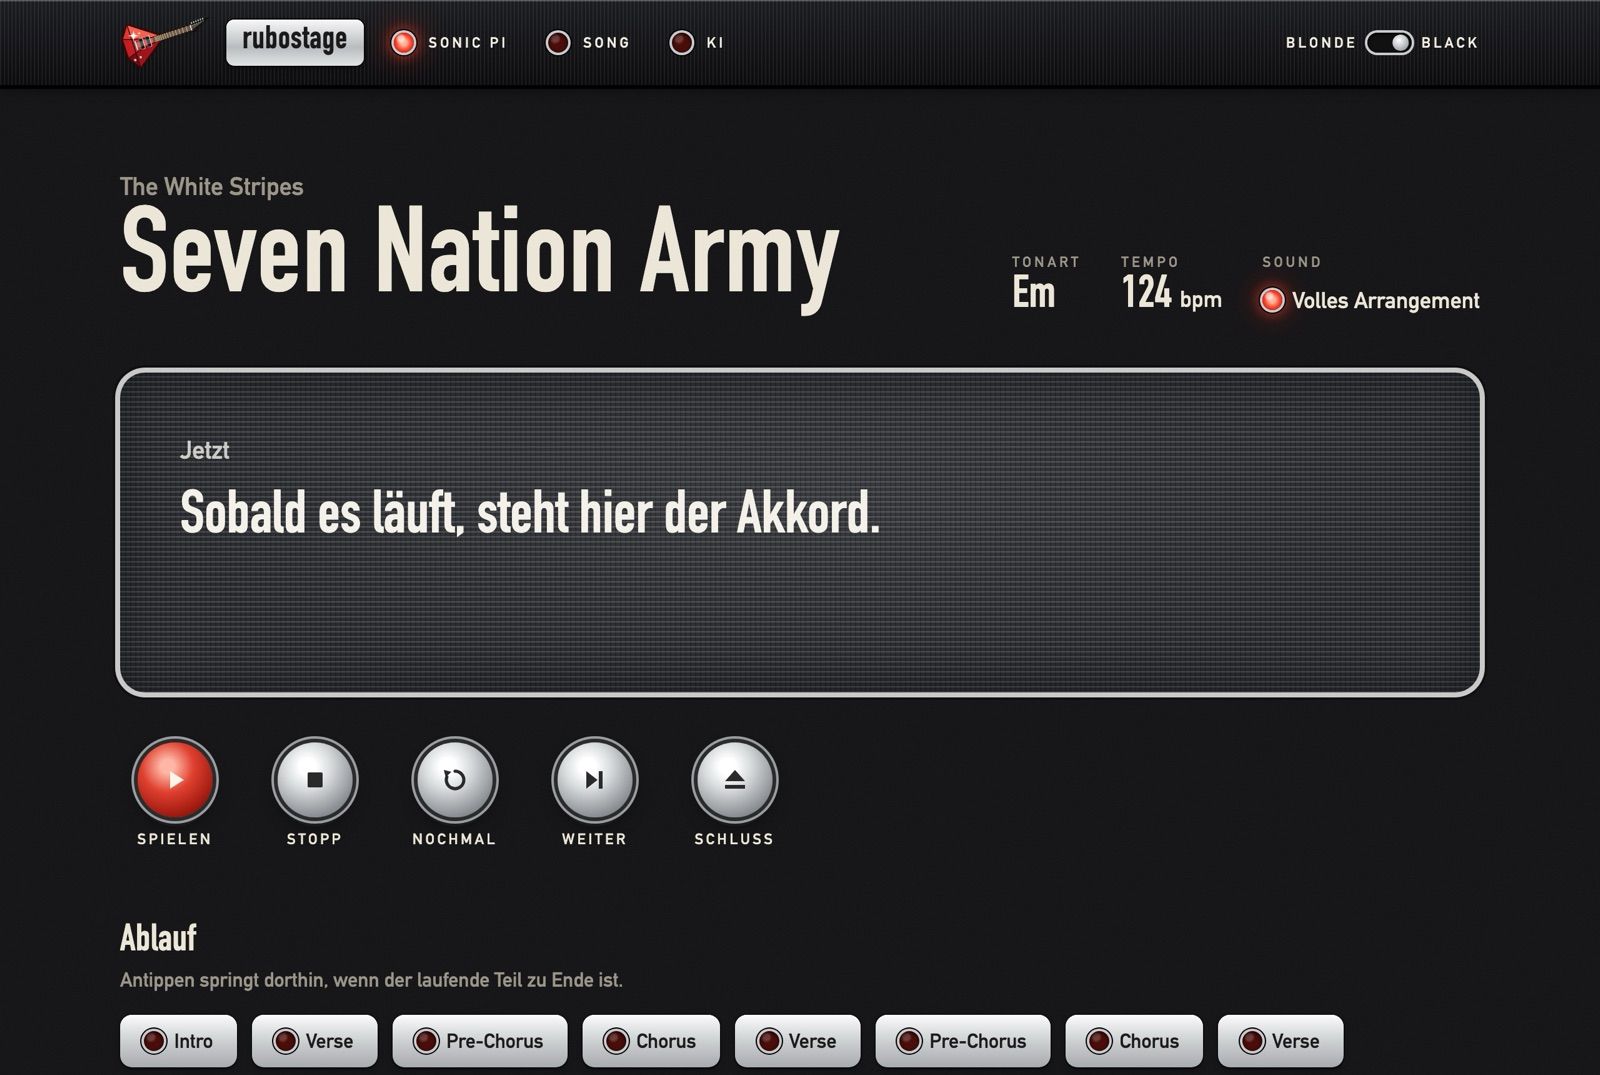
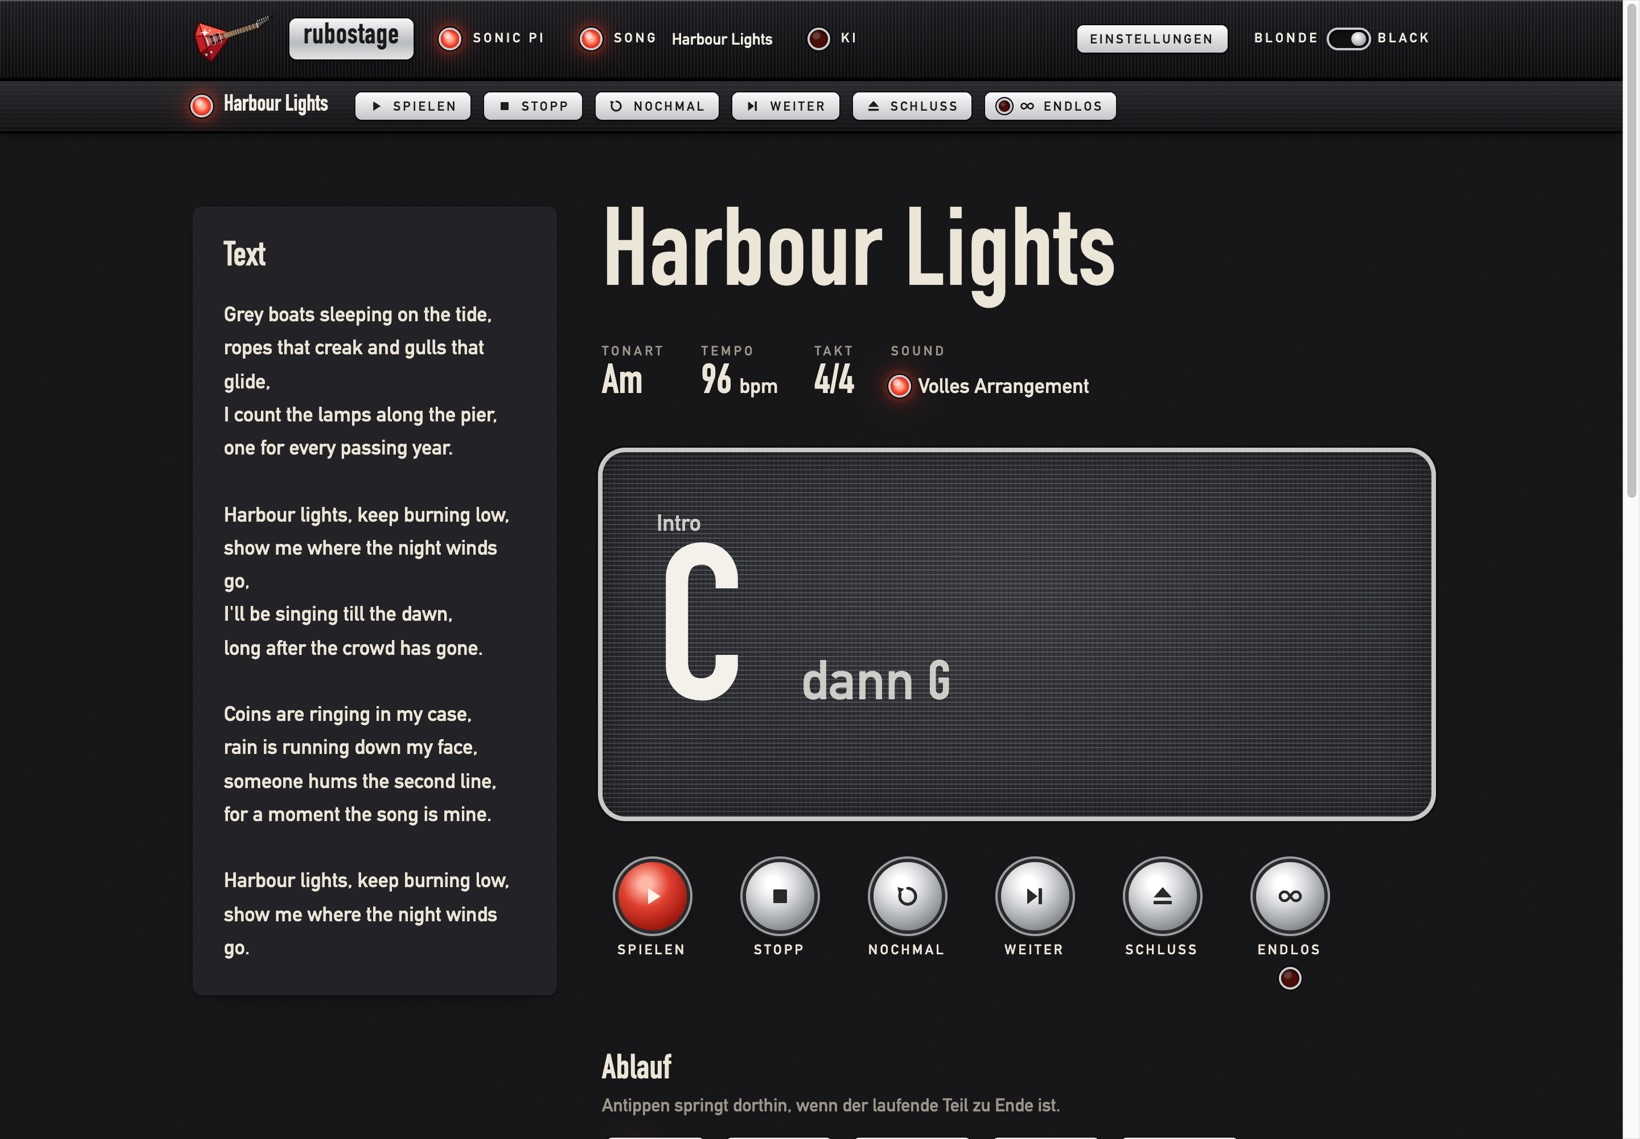
Show the repertoire, the editor and the transport bar in the README

diff --git a/README.md b/README.md
@@ -7,11 +7,12 @@
 <p align="center">
   <strong>Name a song. Get a band.</strong><br>
   A play-along machine for busking: someone shouts a request, rubostage writes the chart,<br>
-  Sonic Pi plays drums, bass and keys, and you sing and play guitar on top.
+  Sonic Pi plays drums, bass and keys, and you sing and play guitar on top.<br>
+  Or write your own song and let it build the band around it.
 </p>
 
 <p align="center">
-  <img src="docs/song-blonde.jpg" alt="A song in rubostage: title, key and tempo, the grille panel where the current chord appears, footswitches, and the song form" width="820">
+  <img src="docs/song-blonde.jpg" alt="A song playing in rubostage: the lyrics on the left, the current chord big in the grille panel, the footswitches below, and the transport bar under the control bar" width="820">
 </p>
 
 ---
@@ -24,7 +25,9 @@ the chart comes from an AI, the music comes from [Sonic Pi](https://sonic-pi.net
 and the lead sheet follows along chord by chord, so your hands can stay on the
 guitar.
 
-It shows **form and chords only**. Lyrics and melody are yours.
+The AI writes **form and chords only**, never lyrics or melody. Those are
+yours: paste your words into a song and they sit beside the chart while you
+play.
 
 ## What it does
 
@@ -34,22 +37,52 @@ It shows **form and chords only**. Lyrics and melody are yours.
   arrangement: drum style, bass, keys, guitar part, energy per section. It is
   swapped in *while the song plays*, at the next section boundary, without
   losing your place in the form.
+- **Write your own.** Start a song from scratch in the editor: key, tempo,
+  bar length, sections and chords. Press *Arrangieren lassen* and the AI
+  builds the band around it. Any song can be arranged again, with a wish like
+  "quieter, reggae in the chorus".
 - **A lead sheet that follows.** Sonic Pi reports every chord change. The page
   shows the current chord big, the next one small, and marks the part of the
-  form you are in.
+  form you are in. Your lyrics stay in view in a column on the left.
 - **Steer it while you play.** Repeat the part, skip to the next, jump
-  anywhere in the form, or play the ending. Every command lands cleanly at a
-  section boundary. For now that means keys; a MIDI foot controller is planned.
-- **Write your own.** Start a song from scratch in the editor, just key, tempo,
-  sections and chords, and let the AI arrange the band on demand. Any song can
-  be arranged again, with a wish like "quieter, reggae in the chorus".
+  anywhere in the form, play the ending, or loop the whole form endlessly.
+  Every command lands cleanly at a section boundary, and the transport bar
+  keeps the footswitches at hand on every page.
 - **Fix what the AI got wrong.** Edit title, key, tempo, form, chords, and per
-  section the groove, energy, swing and guitar style. Add riffs as plain ASCII
-  guitar tabs. Saving while the song plays updates it in place.
+  section the groove, energy, swing and guitar style. Add guitar and bass
+  riffs as plain ASCII tabs. Saving while the song plays updates it in place.
 - **Works offline.** Every song you have made plays again without a network.
-  Only new requests need the AI.
+  Only new requests and arrangements need the AI.
 - **Take it home.** Every song lands in a songs folder of your choice as a
-  standalone Sonic Pi file plus notes, so it lives on without the app.
+  standalone Sonic Pi file plus notes. Record any song to a WAV and download it.
+
+## Your repertoire
+
+The start page is your repertoire: a compact wish field on top, every song
+below, wished for or written by hand. *+ Neuer Song* opens an empty editor.
+
+<p align="center">
+  <img src="docs/repertoire.jpg" alt="The repertoire: the wish field on top, then the list of songs with key, tempo and an edit button, a hand-written song among the covers" width="820">
+</p>
+
+The editor is the heart of rubostage. A song is a skeleton (key, tempo, bar
+length, sections, chords, form) plus, optionally, an arrangement. Whether the
+AI wrote the skeleton or you did makes no difference from there on.
+
+<p align="center">
+  <img src="docs/editor.jpg" alt="The editor: a section with its chords, how the band plays it, and a guitar riff as tab, ticked on next to an unticked bass riff" width="820">
+</p>
+
+Chords are written the way a chart writes them:
+
+```
+Am | % | F | C G
+```
+
+`|` separates bars, two chords in a bar share it, and an empty bar or `%`
+holds the chord before it. A song's bars are **4/4** or **2/4**: in 2/4 the
+chords change every two beats while the band keeps playing its patterns in
+fours, so a slow song can change chords often without sounding rushed.
 
 ## The control bar
 
@@ -64,8 +97,16 @@ Across the top sits an amp's control plate with three pilot lamps:
 The switch on the right flips between the two amps the design is modelled on:
 **Blonde** (light) and **Blackface** (dark).
 
+Once a song has been started, a second bar appears below, black like a
+pedalboard: the **transport bar** with *Spielen*, *Stopp*, *Nochmal*,
+*Weiter*, *Schluss* and *Endlos* for that song. It stays on every page, also
+after the song stopped, so you can look at another song or edit one while
+the band keeps playing, and start it again from anywhere. *Endlos* latches
+like an amp switch: while it is on, the form starts again from the top
+instead of ending.
+
 <p align="center">
-  <img src="docs/song-blackface.jpg" alt="The same song page in the dark Blackface theme" width="820">
+  <img src="docs/song-blackface.jpg" alt="The same song playing, in the dark Blackface theme" width="820">
 </p>
 
 ## How it works
@@ -153,8 +194,8 @@ is not running yet.
 
 ## Keyboard
 
-The page listens to the keyboard, so you never have to let go of the guitar
-for long.
+The song's page listens to the keyboard, so you never have to let go of the
+guitar for long.
 
 | Key | Action |
 |-----|--------|
@@ -163,6 +204,7 @@ for long.
 | <kbd>R</kbd> | repeat the current part |
 | <kbd>N</kbd> / <kbd>→</kbd> | next part |
 | <kbd>E</kbd> | play the ending |
+| <kbd>L</kbd> | loop the form on or off |
 | <kbd>1</kbd>–<kbd>9</kbd> | jump to that part of the form |
 
 ### MIDI foot controller (planned)
@@ -175,8 +217,9 @@ keys, but that has not been tried either.
 
 ## Riffs as tabs
 
-In the editor every section can carry a riff, written the way guitarists write
-them anyway:
+In the editor every section can carry a guitar riff, a bass riff, or both.
+Tick *Gitarre* or *Bass* and the box fills with the strings and an empty bar,
+ready for frets, written the way guitarists write them anyway:
 
 ```
 e|----------------|----------------|
@@ -187,9 +230,19 @@ A|--7--7-10-7-5-3-|-2--------------|
 E|----------------|----------------|
 ```
 
+A bass tab has four strings:
+
+```
+G|----------------|
+D|----------------|
+A|0-------0---3---|
+E|--------------1-|
+```
+
 One character is a sixteenth, 16 per bar. `x` is a dead note, `-` lets it ring.
-Tunings: standard, drop D, half a step down and D standard. Riffs repeat until
-their section ends.
+Tunings: standard, drop D, half a step down and D standard; the bass follows
+the guitar's lowest four strings an octave down. Riffs repeat until their
+section ends. Where the bass plays a riff, the arranged bass line rests.
 
 ## The songs folder
 
@@ -210,6 +263,17 @@ touched again.
 A song keeps its Sonic Pi code: it sounds the way it did when last saved or
 arranged, even after the groove engine has changed. **Code neu bauen** on the
 song's page brings it up to date.
+
+Lyrics stay in the app: they are not written to the songs folder and never
+sent to the AI.
+
+## Recording a WAV
+
+*WAV aufnehmen* on a song's page plays it once through, with the loop off,
+and records what Sonic Pi sounds. Sonic Pi cannot render faster than it
+plays, so a three-minute song takes three minutes and you hear it while it
+records. The take is then offered as a download, named after the song, and
+kept out of git under `storage/recordings/`.
 
 ## Playing without the app
 
@@ -256,6 +320,9 @@ bin/rails zeitwerk:check
 Specs cover everything that is plain Ruby: lead sheets, arrangements, grooves,
 tabs, the editor, export, the OSC client. Sound is checked by ear, and by
 recording takes with `bin/play --record`.
+
+The screenshots in `docs/` come from a demo instance with its own database,
+and the lyrics in them are made up for the purpose.
 
 ## Origin
 
